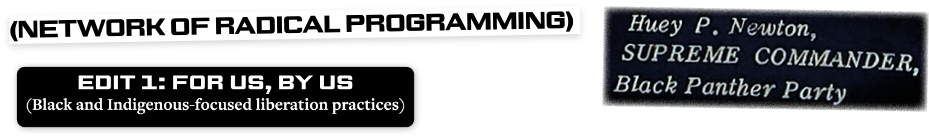
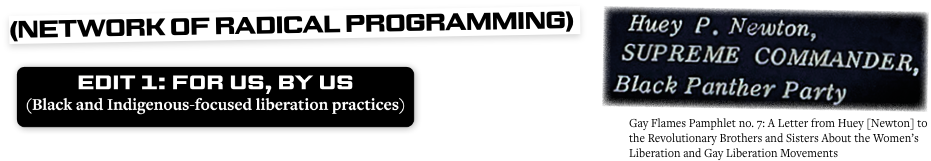
LAST EDITS BEFORE CRITIQUE
Added image captions, fixed my jumplinks, added footer credits, added airtable link for the google form i'm feeling good and jiggy!

diff --git a/index.html b/index.html
@@ -31,8 +31,8 @@
 
 <!-- ABOUT -->
 
-<div class="sections">
-  <img id="about" class="thirdworld" src="image/third-world-womens-alliance.png"/>
+<div id="about" class="sections">
+  <img class="thirdworld" src="image/third-world-womens-alliance.png"/>
 <h2>1. About</h2>
 <img class="french" src="image/AboutHeader.png"/>
 
@@ -55,9 +55,9 @@
 
 <!-- BUILD -->
 
-<div class="sections-three">
+<div id="build" class="sections-three">
   <h2>2. Build</h2>
-  <center><img id="build" src="image/build-opener.png"/></center>
+  <center><img src="image/build-opener.png"/></center>
   <center><img src="image/build-opener-2.png"/></center>
 
   <center><h5><strong><mark class="blackwhite"> know a group doing good stuff? <a class="green" href="#submissions">let me know</a></strong></mark></h5></center>
@@ -115,9 +115,9 @@
 
 <!-- ENGAGE -->
 
-<div class="sections">
+<div id="engage" class="sections">
   <h2>3. Engage</h2>
-  <img id="engage" src="image/engage-opener.png"/>
+  <img src="image/engage-opener.png"/>
   <h5><center><mark class="blackwhite"> need volunteers? <a href="#submissions">let's find 'em</a></mark></center></h5>
 
 <!-- button 1 -->
@@ -174,9 +174,9 @@
 
 <!-- LEARN -->
 
-<div class="sections-five">
+<div id="learn" class="sections-five">
   <h2>4. Learn</h2>
-  <center><img id="learn" src="image/learn-opener.png"/></center>
+  <center><img src="image/learn-opener.png"/></center>
 
 <div class="row">
 <!-- button1 -->
@@ -270,10 +270,15 @@
     <a href="https://forms.gle/euHjPUcnvUwmR61F9"> <h4>Go to form</h4> </a>
 
   </button></center>
-
-<center><h5>created by kellyn nettles, october 2021</h5></center>
 <center><h5><a href="#top"><center>back to top</center></a></h5></center>
 </div>
+
+<div class="footer">
+  <center><h5 class="white">created by kellyn nettles, october 2021. The Neue Black font from Vocal Type. Freight Text Pro font by Joshua Darden. Millimetre font from Jérémy Landes. All organization information provided from group's websites or social media. Breathing break rooted in Hermeticism and the Emerald Tablet. Archival resources curated with help from JSTOR. We makin moves and growing community around these parts. Come join the party.</h5></center>
+</div>
+
+
+
 
 
 

diff --git a/css/style.css b/css/style.css
@@ -84,6 +84,7 @@ color: white;
   top: 3%;
   left: 3%;
   width: 10%;
+  z-index: 200;
 }
 
 .build {
@@ -91,6 +92,7 @@ color: white;
   top: 3%;
   right: 3%;
   width: 10%;
+  z-index: 200;
 }
 
 .engage {
@@ -98,6 +100,7 @@ color: white;
   bottom: 3%;
   left: 3%;
   width: 10%;
+  z-index: 200;
 }
 
 .learn {
@@ -105,6 +108,7 @@ color: white;
   bottom: 3%;
   right: 3%;
   width: 10%;
+  z-index: 200;
 }
 
 .header {
@@ -150,6 +154,8 @@ line-height: 1.3;
 .sections {
 padding-left: 20%;
 padding-right: 20%;
+padding-top: 10px;
+padding-bottom: 10px;
 position:relative;
 }
 
@@ -225,6 +231,8 @@ width: 20%;
 .sections-three {
 padding-left: 20%;
 padding-right: 20%;
+padding-top: 10px;
+padding-bottom: 10px;
 position:relative;
 background-image: url("../image/build-bg.png");
 background-repeat: no-repeat;
@@ -721,6 +729,19 @@ button {
 
 }
 
+.footer {
+  padding-left: 20%;
+  padding-right: 20%;
+  padding-top: 1%;
+  padding-bottom: 1%;
+  position:relative;
+
+}
+
+.white {
+color: white;
+letter-spacing: .5px;
+}
 /* Mobile
 -------------------------------------------------- */
 
